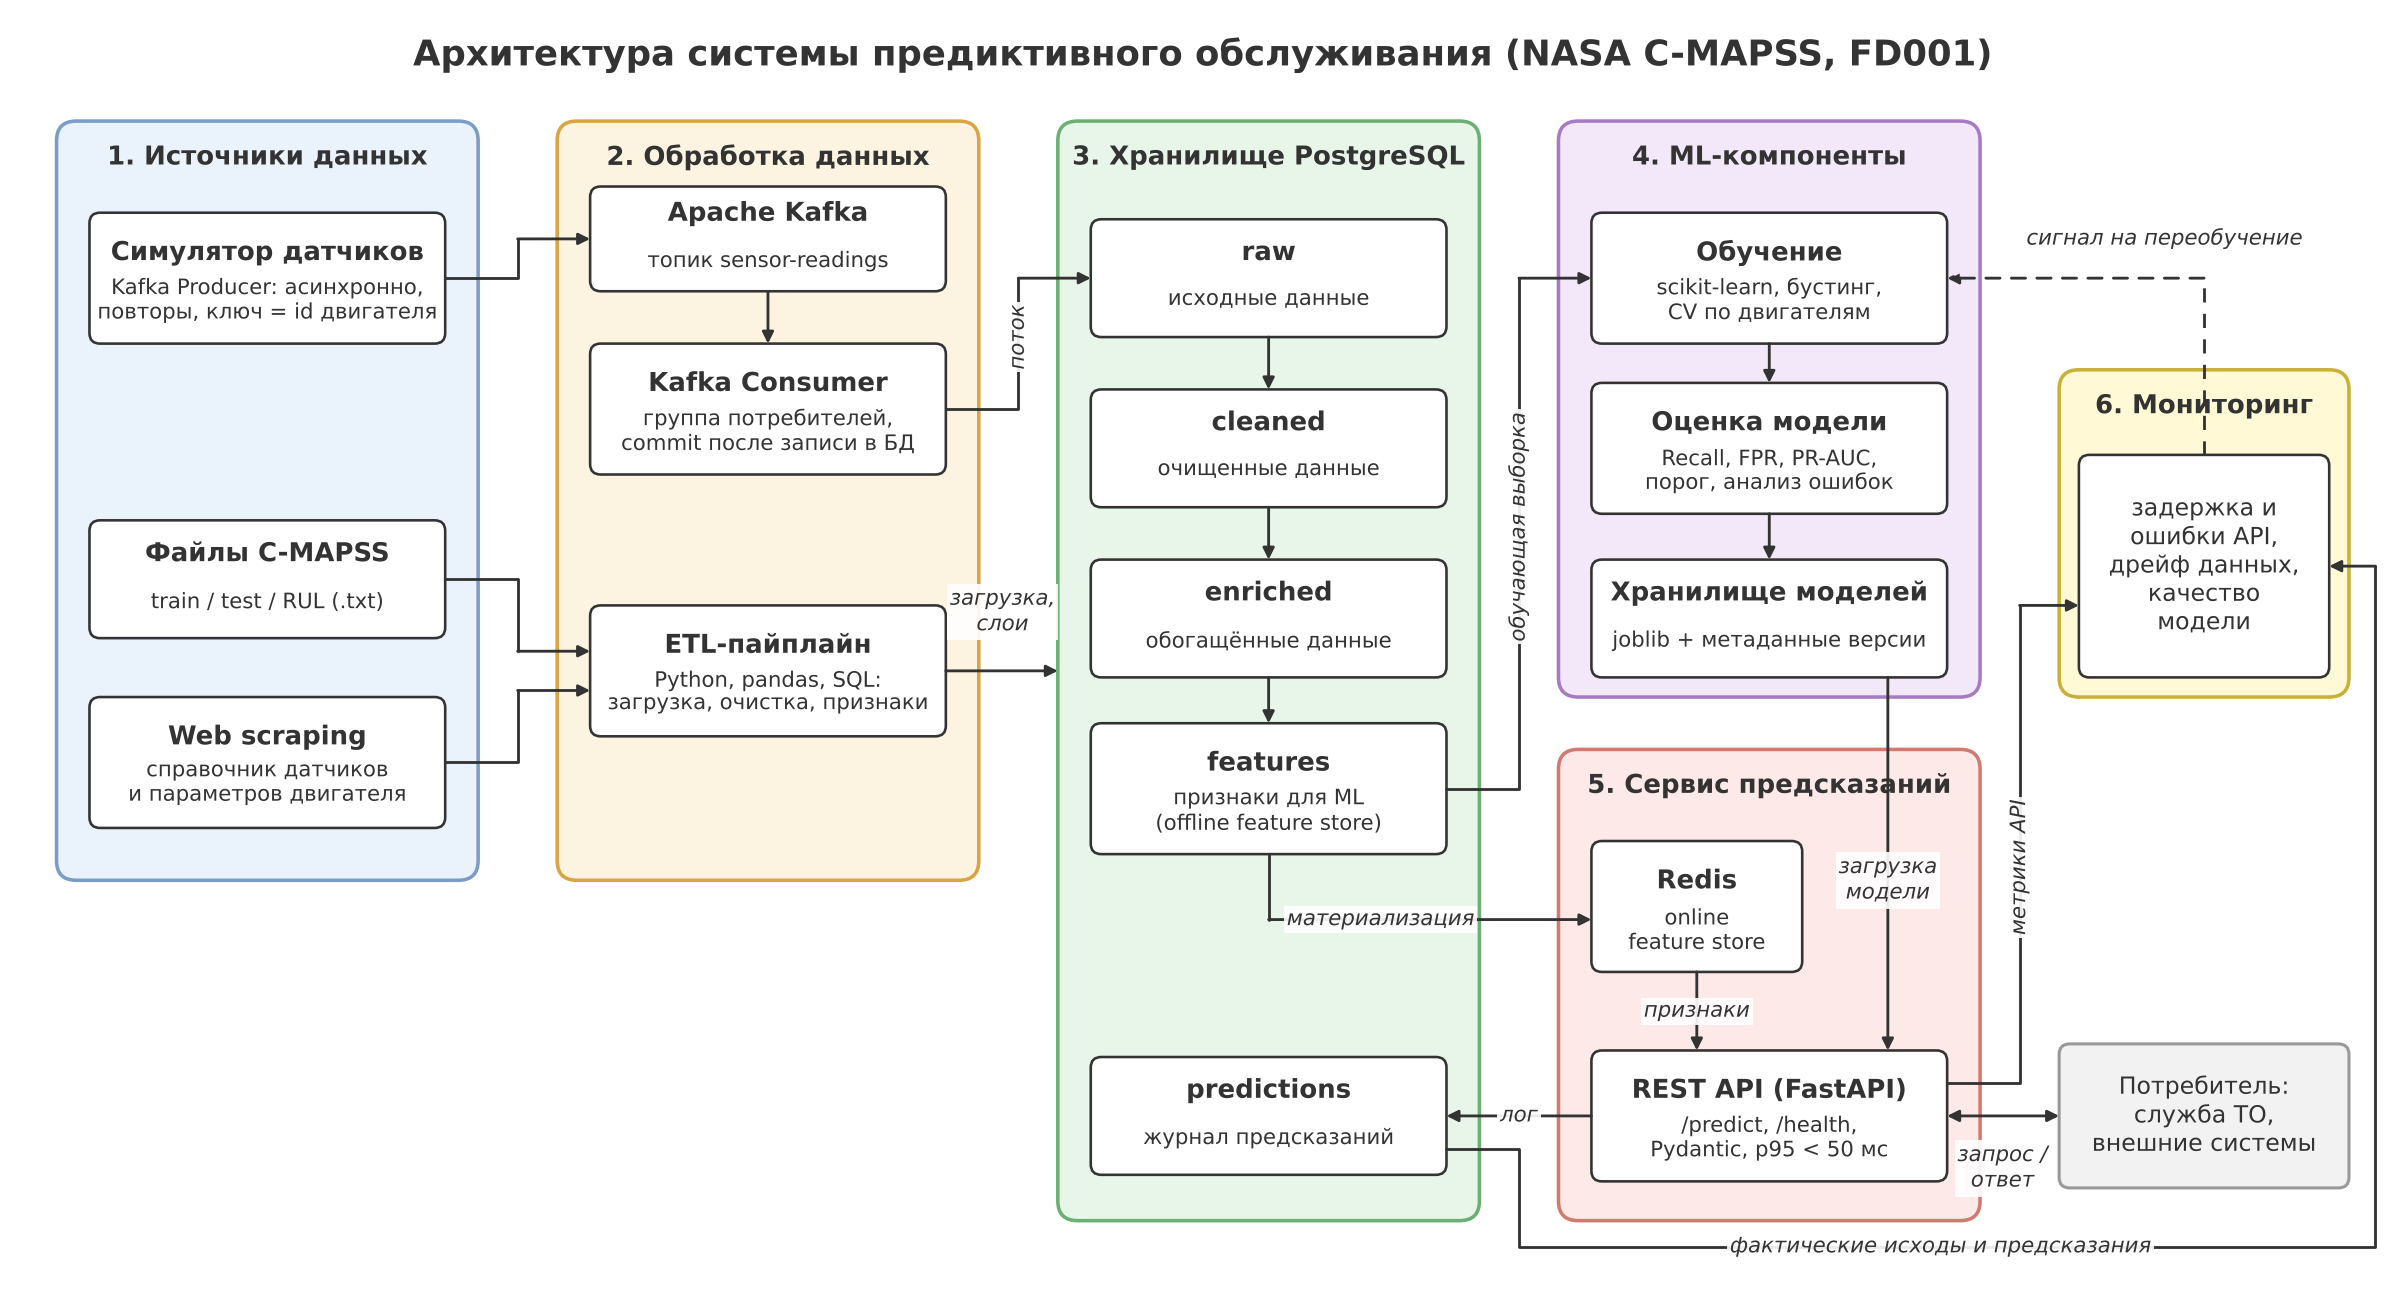
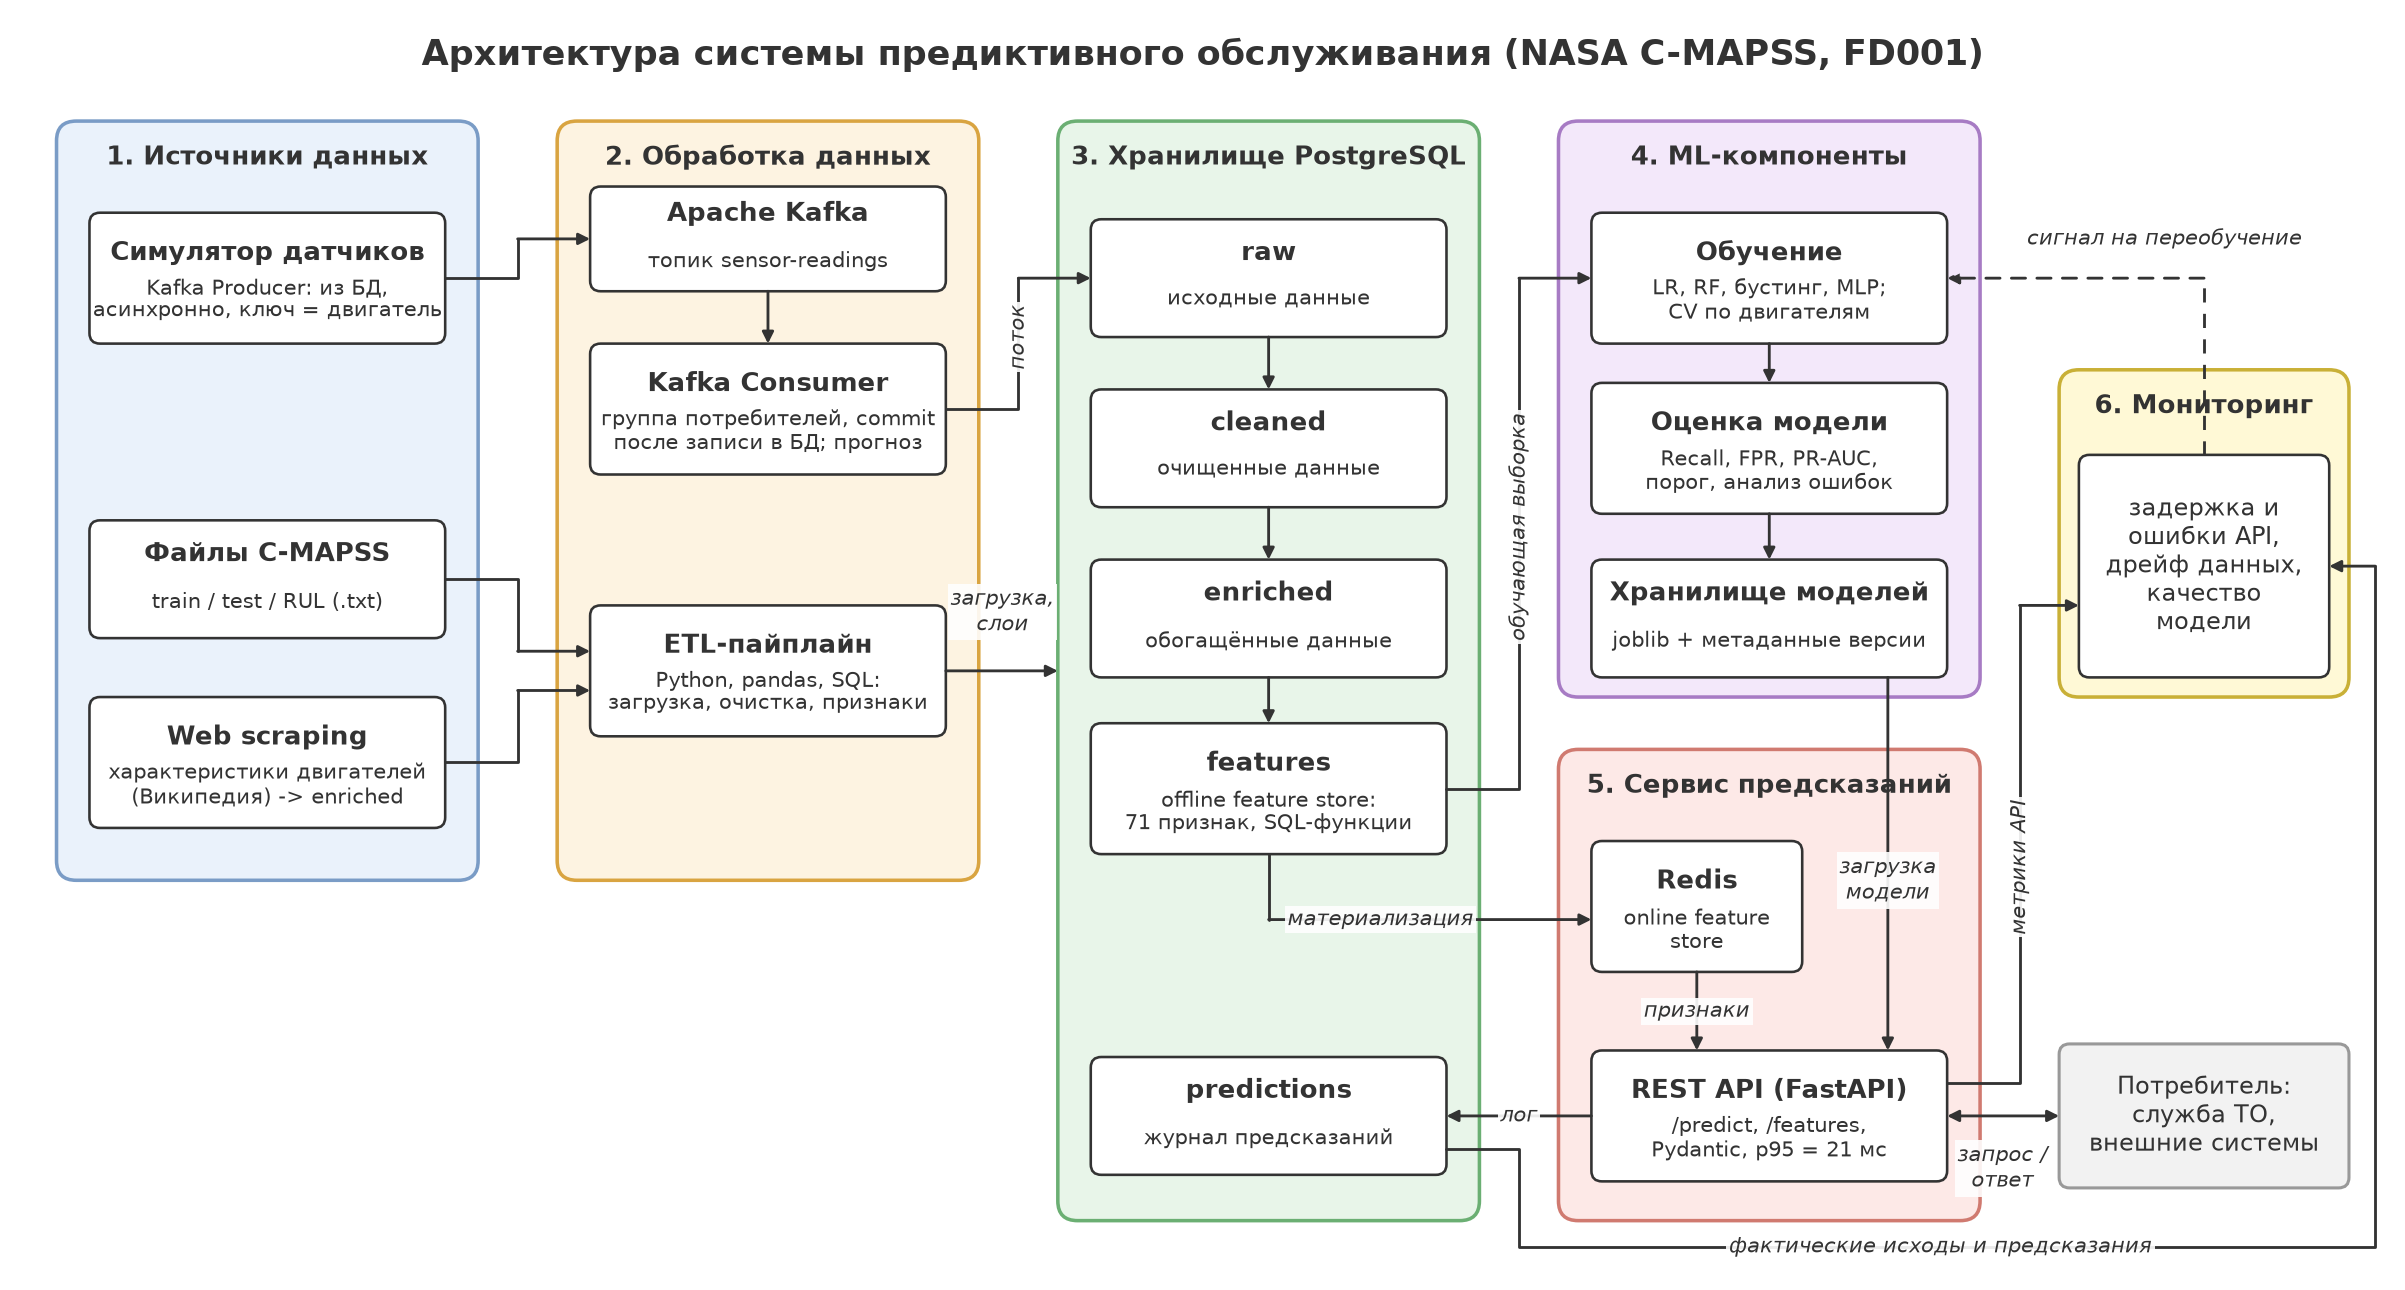
Мониторинг: SQL-запросы по журналу предсказаний; диаграмма архитектуры по факту реализации
- задержка и доля тревог по источникам, дрейф входных данных, качество на известных исходах
- диаграмма: алгоритмы, web scraping, consumer с прогнозом, offline feature store

diff --git a/scripts/draw_architecture.py b/scripts/draw_architecture.py
@@ -52,25 +52,25 @@ group(15.5, 4.7, 17.7, 7.2, "6. Мониторинг", "mon")
 
 # --- узлы
 W = 2.7
-box(1.9, 7.9, W, "Симулятор датчиков", "Kafka Producer: асинхронно,\nповторы, ключ = id двигателя", h=1.0)
+box(1.9, 7.9, W, "Симулятор датчиков", "Kafka Producer: из БД,\nасинхронно, ключ = двигатель", h=1.0)
 box(1.9, 5.6, W, "Файлы C-MAPSS", "train / test / RUL (.txt)")
-box(1.9, 4.2, W, "Web scraping", "справочник датчиков\nи параметров двигателя", h=1.0)
+box(1.9, 4.2, W, "Web scraping", "характеристики двигателей\n(Википедия) -> enriched", h=1.0)
 
 box(5.7, 8.2, W, "Apache Kafka", "топик sensor-readings", h=0.8)
-box(5.7, 6.9, W, "Kafka Consumer", "группа потребителей,\ncommit после записи в БД", h=1.0)
+box(5.7, 6.9, W, "Kafka Consumer", "группа потребителей, commit\nпосле записи в БД; прогноз", h=1.0)
 box(5.7, 4.9, W, "ETL-пайплайн", "Python, pandas, SQL:\nзагрузка, очистка, признаки", h=1.0)
 
 box(9.5, 7.9, W, "raw", "исходные данные")
 box(9.5, 6.6, W, "cleaned", "очищенные данные")
 box(9.5, 5.3, W, "enriched", "обогащённые данные")
-box(9.5, 4.0, W, "features", "признаки для ML\n(offline feature store)", h=1.0)
+box(9.5, 4.0, W, "features", "offline feature store:\n71 признак, SQL-функции", h=1.0)
 box(9.5, 1.5, W, "predictions", "журнал предсказаний")
 
-box(13.3, 7.9, W, "Обучение", "scikit-learn, бустинг,\nCV по двигателям", h=1.0)
+box(13.3, 7.9, W, "Обучение", "LR, RF, бустинг, MLP;\nCV по двигателям", h=1.0)
 box(13.3, 6.6, W, "Оценка модели", "Recall, FPR, PR-AUC,\nпорог, анализ ошибок", h=1.0)
 box(13.3, 5.3, W, "Хранилище моделей", "joblib + метаданные версии")
-box(12.75, 3.1, 1.6, "Redis", "online\nfeature store", h=1.0)
-box(13.3, 1.5, W, "REST API (FastAPI)", "/predict, /health,\nPydantic, p95 < 50 мс", h=1.0)
+box(12.75, 3.1, 1.6, "Redis", "online feature\nstore", h=1.0)
+box(13.3, 1.5, W, "REST API (FastAPI)", "/predict, /features,\nPydantic, p95 = 21 мс", h=1.0)
 
 box(16.6, 5.7, 1.9, "", "", h=1.7)
 ax.text(16.6, 5.7, "задержка и\nошибки API,\nдрейф данных,\nкачество\nмодели", ha="center", va="center", fontsize=10, color=INK, zorder=4)
